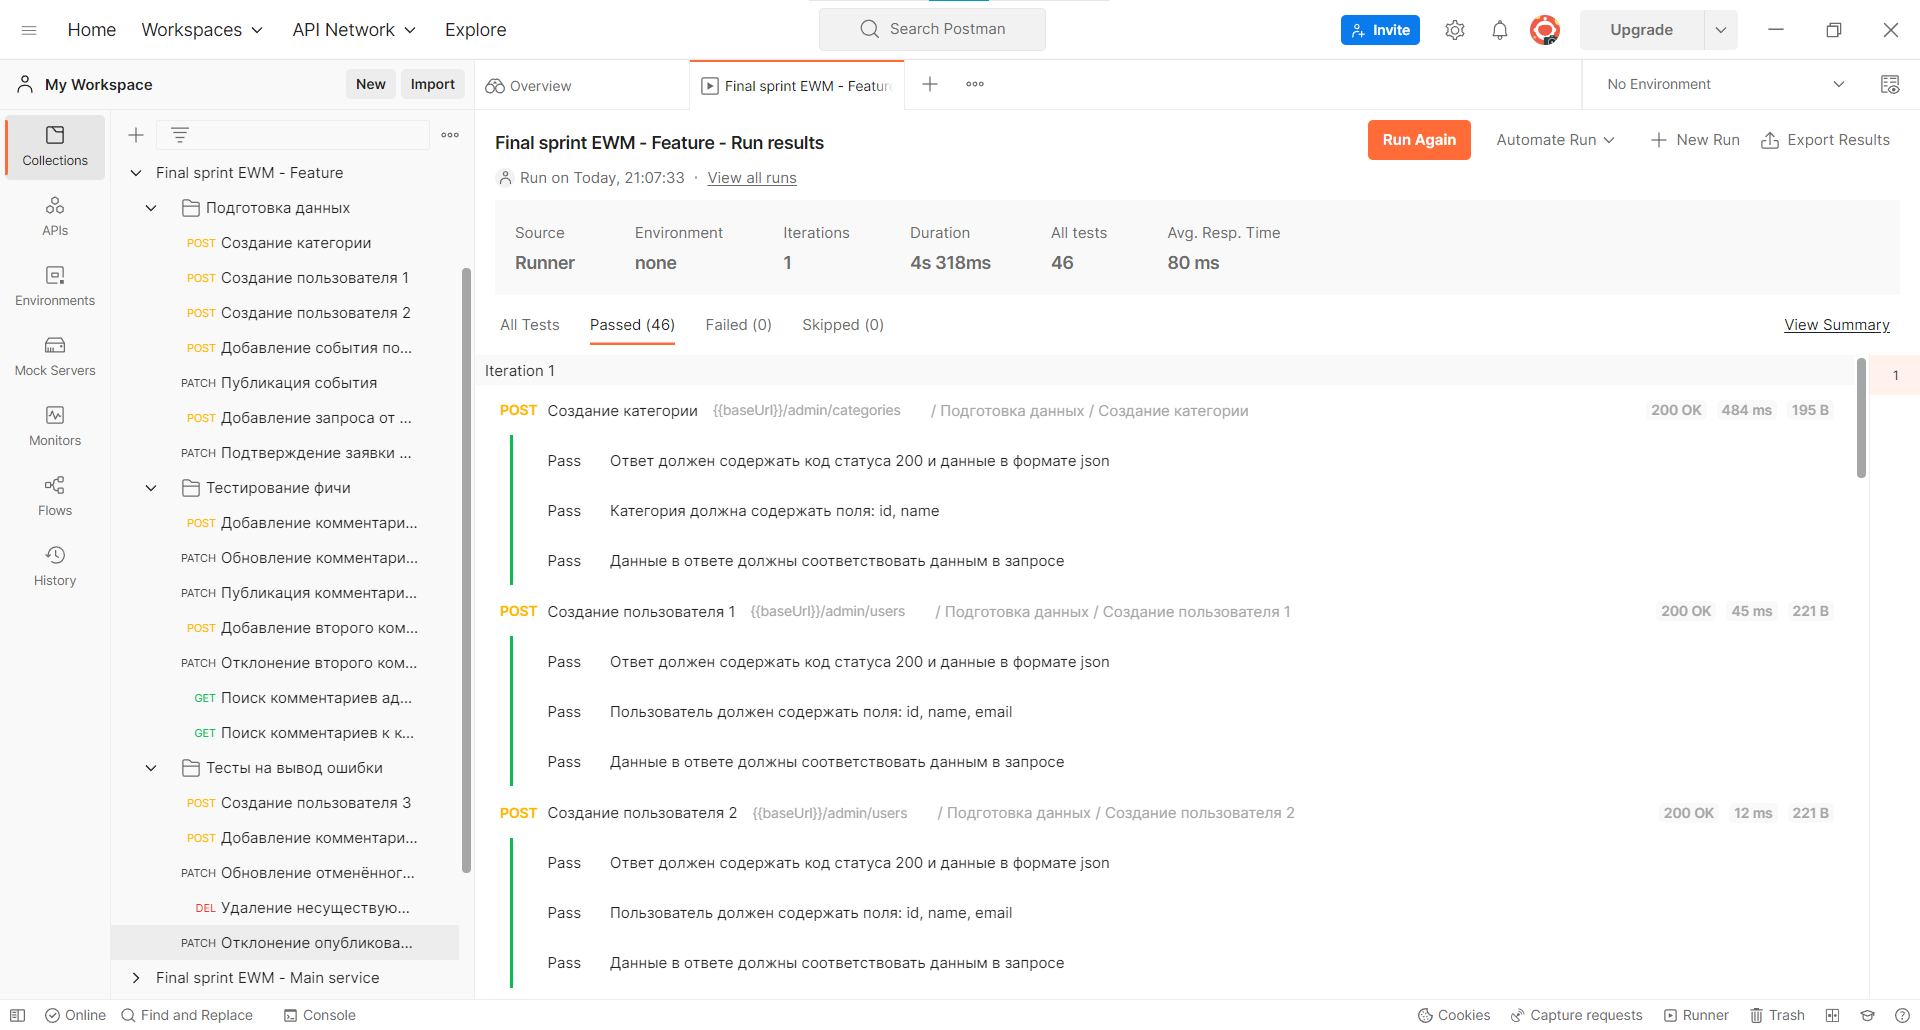
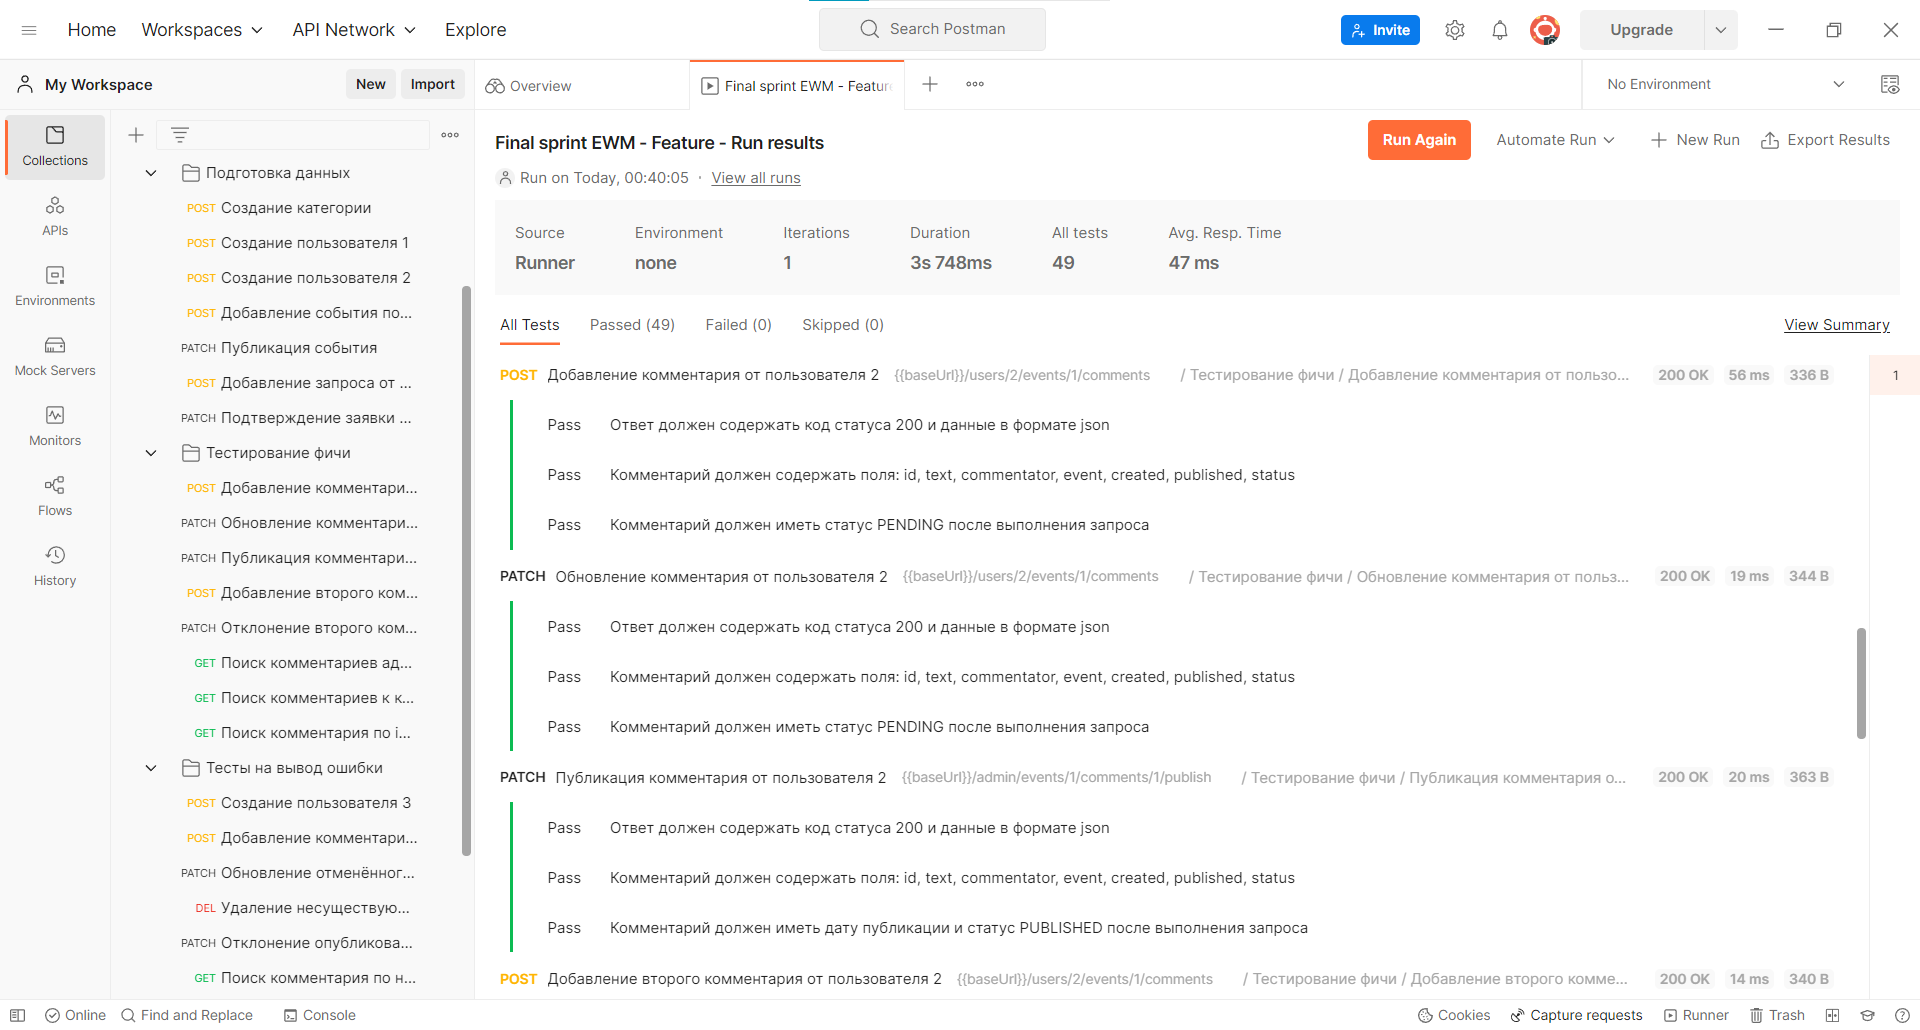
fix: код отредактирован в соответствии с рекомендациями ревьюера

diff --git a/ewm-service/src/main/java/ru/practicum/controller/private_controller/PrivateCommentController.java b/ewm-service/src/main/java/ru/practicum/controller/private_controller/PrivateCommentController.java
@@ -2,24 +2,29 @@ package ru.practicum.controller.private_controller;
 
 import lombok.RequiredArgsConstructor;
 import lombok.extern.slf4j.Slf4j;
+import org.springframework.validation.annotation.Validated;
 import org.springframework.web.bind.annotation.*;
 import ru.practicum.dto.CommentDto;
 import ru.practicum.dto.CommentShortDto;
 import ru.practicum.service.private_service.PrivateCommentService;
 
 import javax.validation.Valid;
+import javax.validation.constraints.Positive;
+import javax.validation.constraints.PositiveOrZero;
 import java.util.List;
 
 @RestController
 @Slf4j
+@Validated
 @RequiredArgsConstructor
 @RequestMapping("/users/{userId}")
 public class PrivateCommentController {
     private final PrivateCommentService commentService;
 
     @GetMapping("/comments")
-    List<CommentShortDto> getByUserId(@PathVariable long userId, @RequestParam(defaultValue = "0") int from,
-                                      @RequestParam(defaultValue = "10") int size) {
+    List<CommentShortDto> getCommentsByUserId(@PathVariable @Positive long userId,
+                                              @RequestParam(defaultValue = "0") @PositiveOrZero int from,
+                                              @RequestParam(defaultValue = "10") @Positive int size) {
         List<CommentShortDto> comments = commentService.getByUserId(userId, from, size);
         log.info("Получен список опубликованных комментариев пользователя с ID = {}.", userId);
 
@@ -27,7 +32,7 @@ public class PrivateCommentController {
     }
 
     @GetMapping("/comments/{commId}")
-    public CommentDto getById(@PathVariable long userId, @PathVariable long commId) {
+    public CommentDto getCommentById(@PathVariable @Positive long userId, @PathVariable @Positive long commId) {
         CommentDto comment = commentService.getById(userId, commId);
         log.info("Получен комментарий '{}'.", comment.getText());
 
@@ -35,7 +40,7 @@ public class PrivateCommentController {
     }
 
     @PostMapping("/events/{eventId}/comments")
-    public CommentDto createComment(@PathVariable long userId, @PathVariable long eventId,
+    public CommentDto createComment(@PathVariable @Positive long userId, @PathVariable @Positive long eventId,
                                     @RequestBody @Valid CommentDto commentDto) {
         CommentDto createdComment = commentService.create(userId, eventId, commentDto);
         log.info("Создан комментарий '{}'.", createdComment.getText());
@@ -44,7 +49,7 @@ public class PrivateCommentController {
     }
 
     @PatchMapping("/events/{eventId}/comments")
-    public CommentDto updateComment(@PathVariable long userId, @PathVariable long eventId,
+    public CommentDto updateComment(@PathVariable @Positive long userId, @PathVariable @Positive long eventId,
                                     @RequestBody @Valid CommentDto commentDto) {
         CommentDto updatedComment = commentService.update(userId, eventId, commentDto);
         log.info("Данные комментария '{}' обновлены.", updatedComment.getText());
@@ -53,7 +58,7 @@ public class PrivateCommentController {
     }
 
     @DeleteMapping("/comments/{commId}")
-    public void deleteComment(@PathVariable long userId, @PathVariable long commId) {
+    public void deleteComment(@PathVariable @Positive long userId, @PathVariable @Positive long commId) {
         commentService.delete(userId, commId);
         log.info("Комментарий с ID = {} удалён.", commId);
     }

diff --git a/ewm-service/src/main/java/ru/practicum/controller/admin_controller/AdminCommentController.java b/ewm-service/src/main/java/ru/practicum/controller/admin_controller/AdminCommentController.java
@@ -2,16 +2,20 @@ package ru.practicum.controller.admin_controller;
 
 import lombok.RequiredArgsConstructor;
 import lombok.extern.slf4j.Slf4j;
+import org.springframework.validation.annotation.Validated;
 import org.springframework.web.bind.annotation.*;
 import ru.practicum.State;
 import ru.practicum.dto.CommentDto;
 import ru.practicum.dto.CommentShortDto;
 import ru.practicum.service.admin_service.AdminCommentService;
 
+import javax.validation.constraints.Positive;
+import javax.validation.constraints.PositiveOrZero;
 import java.util.List;
 
 @RestController
 @Slf4j
+@Validated
 @RequiredArgsConstructor
 @RequestMapping("/admin")
 public class AdminCommentController {
@@ -23,8 +27,8 @@ public class AdminCommentController {
                                       @RequestParam(required = false) List<State> statuses,
                                       @RequestParam(required = false) String rangeStart,
                                       @RequestParam(required = false) String rangeEnd,
-                                      @RequestParam(defaultValue = "0") int from,
-                                      @RequestParam(defaultValue = "10") int size) {
+                                      @RequestParam(defaultValue = "0") @PositiveOrZero int from,
+                                      @RequestParam(defaultValue = "10") @Positive int size) {
         List<CommentShortDto> comments = commentService.get(users, events, statuses, rangeStart, rangeEnd, from, size);
         log.info("Получен список комментариев.");
 
@@ -32,7 +36,7 @@ public class AdminCommentController {
     }
 
     @PatchMapping("/events/{eventId}/comments/{commId}/publish")
-    public CommentDto publishComment(@PathVariable long eventId, @PathVariable long commId) {
+    public CommentDto publishComment(@PathVariable @Positive long eventId, @PathVariable @Positive long commId) {
         CommentDto publishedComment = commentService.publish(eventId, commId);
         log.info("Комментарий пользователя {} опубликован.", publishedComment.getCommentator().getName());
 
@@ -40,7 +44,7 @@ public class AdminCommentController {
     }
 
     @PatchMapping("/events/{eventId}/comments/{commId}/cancel")
-    public CommentDto cancelComment(@PathVariable long eventId, @PathVariable long commId) {
+    public CommentDto cancelComment(@PathVariable @Positive long eventId, @PathVariable @Positive long commId) {
         CommentDto cancelledComment = commentService.cancel(eventId, commId);
         log.info("Комментарий пользователя {} отклонён.", cancelledComment.getCommentator().getName());
 

diff --git a/ewm-service/src/main/java/ru/practicum/controller/public_controller/PublicCommentController.java b/ewm-service/src/main/java/ru/practicum/controller/public_controller/PublicCommentController.java
@@ -2,26 +2,38 @@ package ru.practicum.controller.public_controller;
 
 import lombok.RequiredArgsConstructor;
 import lombok.extern.slf4j.Slf4j;
+import org.springframework.validation.annotation.Validated;
 import org.springframework.web.bind.annotation.*;
 import ru.practicum.dto.CommentShortDto;
 import ru.practicum.service.public_service.PublicCommentService;
 
+import javax.validation.constraints.Positive;
+import javax.validation.constraints.PositiveOrZero;
 import java.util.List;
 
 @RestController
 @Slf4j
+@Validated
 @RequiredArgsConstructor
-@RequestMapping("/events/{eventId}/comments")
+@RequestMapping("/comments")
 public class PublicCommentController {
     private final PublicCommentService commentService;
 
-    @GetMapping
-    public List<CommentShortDto> getCommentsByEventId(@PathVariable long eventId,
-                                                      @RequestParam(defaultValue = "0") int from,
-                                                      @RequestParam(defaultValue = "10") int size) {
+    @GetMapping("/events/{eventId}")
+    public List<CommentShortDto> getCommentsByEventId(@PathVariable @Positive long eventId,
+                                                      @RequestParam(defaultValue = "0") @PositiveOrZero int from,
+                                                      @RequestParam(defaultValue = "10") @Positive int size) {
         List<CommentShortDto> comments = commentService.getByEventId(eventId, from, size);
         log.info("Получен список опубликованных комментариев к событию с ID = {}.", eventId);
 
         return comments;
+    }
+
+    @GetMapping("/{commId}")
+    public CommentShortDto getCommentById(@PathVariable @Positive long commId) {
+        CommentShortDto comment = commentService.getById(commId);
+        log.info("Получен комментарий '{}'.", comment.getText());
+
+        return comment;
     }
 }

diff --git a/ewm-service/src/main/java/ru/practicum/service/public_service/PublicCommentServiceImpl.java b/ewm-service/src/main/java/ru/practicum/service/public_service/PublicCommentServiceImpl.java
@@ -6,11 +6,15 @@ import org.springframework.data.domain.Pageable;
 import org.springframework.stereotype.Service;
 import ru.practicum.State;
 import ru.practicum.dto.CommentShortDto;
+import ru.practicum.entity.Comment;
+import ru.practicum.exception.NotFoundException;
 import ru.practicum.mapper.CommentMapper;
 import ru.practicum.repository.CommentRepository;
 
 import java.util.List;
 import java.util.stream.Collectors;
+
+import static ru.practicum.mapper.CommentMapper.toCommentShortDto;
 
 @Service
 @RequiredArgsConstructor
@@ -24,5 +28,13 @@ public class PublicCommentServiceImpl implements PublicCommentService {
         return commentRepository.findAllByEventIdAndStatus(eventId, State.PUBLISHED, pageable).stream()
                 .map(CommentMapper::toCommentShortDto)
                 .collect(Collectors.toList());
+    }
+
+    @Override
+    public CommentShortDto getById(long commId) {
+        Comment comment = commentRepository.findByIdAndStatus(commId, State.PUBLISHED)
+                .orElseThrow(() -> new NotFoundException(String.format("Комментарий с ID = %d не найден.", commId)));
+
+        return toCommentShortDto(comment);
     }
 }

diff --git a/ewm-service/src/main/java/ru/practicum/exception/ErrorHandler.java b/ewm-service/src/main/java/ru/practicum/exception/ErrorHandler.java
@@ -9,14 +9,15 @@ import org.springframework.web.bind.annotation.ResponseStatus;
 import org.springframework.web.bind.annotation.RestControllerAdvice;
 import ru.practicum.mapper.DateTimeMapper;
 
+import javax.validation.ConstraintViolationException;
 import java.time.LocalDateTime;
 
 @RestControllerAdvice
 @Slf4j
 public class ErrorHandler {
 
-    @ExceptionHandler({BadRequestException.class, ValidationException.class,
-            MethodArgumentNotValidException.class, MissingServletRequestParameterException.class})
+    @ExceptionHandler({BadRequestException.class, ValidationException.class, MethodArgumentNotValidException.class,
+            MissingServletRequestParameterException.class, ConstraintViolationException.class})
     @ResponseStatus(HttpStatus.BAD_REQUEST)
     public ApiError handleBadRequestException(final Exception e) {
         log.error("Возникла ошибка 400: {}", e.getMessage(), e);

diff --git a/ewm-service/src/main/java/ru/practicum/repository/CommentRepository.java b/ewm-service/src/main/java/ru/practicum/repository/CommentRepository.java
@@ -23,5 +23,7 @@ public interface CommentRepository extends JpaRepository<Comment, Long> {
 
     Optional<Comment> findByIdAndEventId(long id, long eventId);
 
+    Optional<Comment> findByIdAndStatus(long id, State status);
+
     Optional<Comment> findByIdAndCommentatorIdAndEventId(long id, long commentatorId, long eventId);
 }

diff --git a/ewm-service/src/main/java/ru/practicum/service/public_service/PublicCommentService.java b/ewm-service/src/main/java/ru/practicum/service/public_service/PublicCommentService.java
@@ -7,4 +7,6 @@ import java.util.List;
 public interface PublicCommentService {
 
     List<CommentShortDto> getByEventId(long eventId, int from, int size);
+
+    CommentShortDto getById(long commId);
 }
